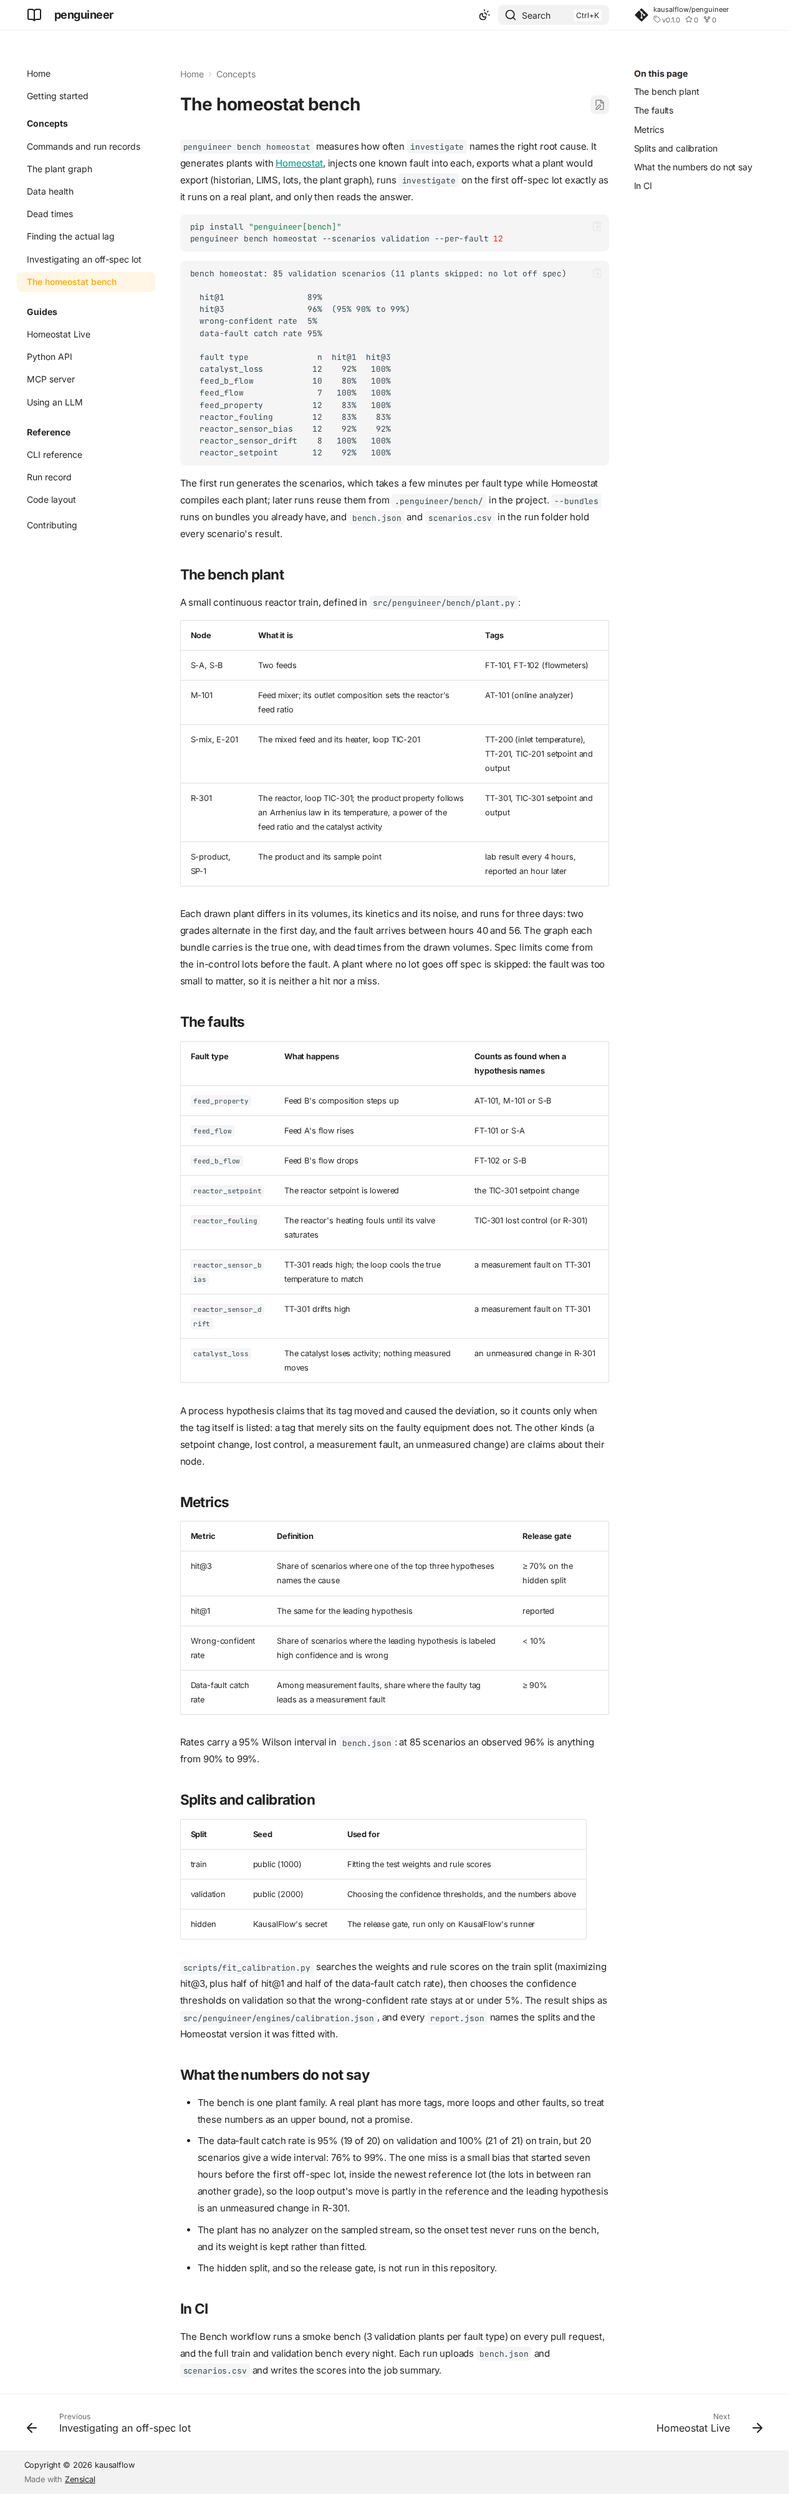
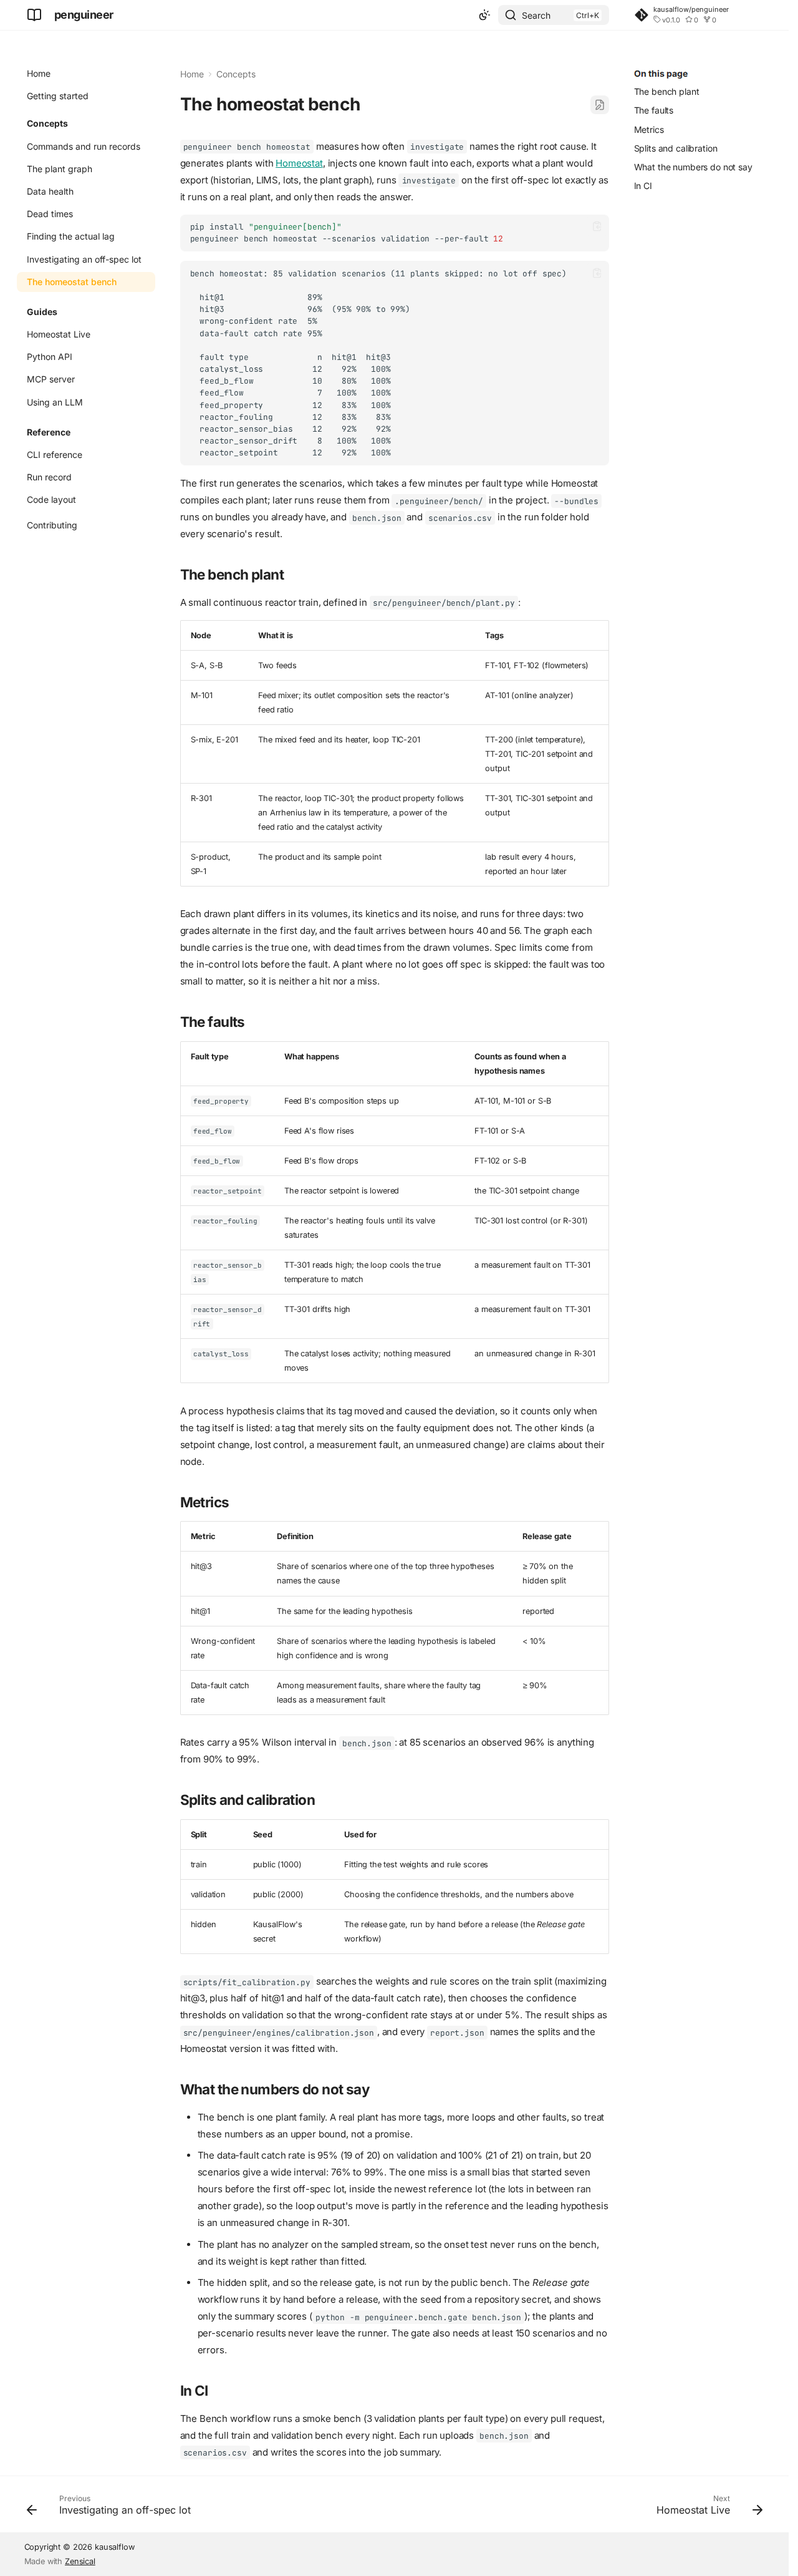
Deploying to gh-pages from @ kausalflow/penguineer@39a3ba0ee938d18e4d6eaf1c0ef626bef046d34f 🚀

diff --git a/concepts/bench/index.html b/concepts/bench/index.html
@@ -1394,7 +1394,7 @@
 <tr>
 <td>hidden</td>
 <td>KausalFlow's secret</td>
-<td>The release gate, run only on KausalFlow's runner</td>
+<td>The release gate, run by hand before a release (the <em>Release gate</em> workflow)</td>
 </tr>
 </tbody>
 </table>
@@ -1404,7 +1404,7 @@
 <li>The bench is one plant family. A real plant has more tags, more loops and other faults, so treat these numbers as an upper bound, not a promise.</li>
 <li>The data-fault catch rate is 95% (19 of 20) on validation and 100% (21 of 21) on train, but 20 scenarios give a wide interval: 76% to 99%. The one miss is a small bias that started seven hours before the first off-spec lot, inside the newest reference lot (the lots in between ran another grade), so the loop output's move is partly in the reference and the leading hypothesis is an unmeasured change in R-301.</li>
 <li>The plant has no analyzer on the sampled stream, so the onset test never runs on the bench, and its weight is kept rather than fitted.</li>
-<li>The hidden split, and so the release gate, is not run in this repository.</li>
+<li>The hidden split, and so the release gate, is not run by the public bench. The <em>Release gate</em> workflow runs it by hand before a release, with the seed from a repository secret, and shows only the summary scores (<code>python -m penguineer.bench.gate bench.json</code>); the plants and per-scenario results never leave the runner. The gate also needs at least 150 scenarios and no errors.</li>
 </ul>
 <h2 id="in-ci">In CI<a class="headerlink" href="#in-ci" title="Permanent link">&para;</a></h2>
 <p>The Bench workflow runs a smoke bench (3 validation plants per fault type) on every pull request, and the full train and validation bench every night. Each run uploads <code>bench.json</code> and <code>scenarios.csv</code> and writes the scores into the job summary.</p>

diff --git a/contributing/index.html b/contributing/index.html
@@ -1202,6 +1202,7 @@
 <h2 id="releasing">Releasing<a class="headerlink" href="#releasing" title="Permanent link">&para;</a></h2>
 <p>penguineer and plantgraph are published to PyPI together, with one version. <code>.github/workflows/release.yml</code> builds both, installs the wheels in a clean environment, and publishes them with PyPI trusted publishing when a GitHub release is published. No token is stored in the repository.</p>
 <ol>
+<li>Run the release gate: start the <em>Release gate</em> workflow from the Actions tab on <code>main</code>. It runs the bench on the hidden split (160 plants by default) with the seed in the repository secret <code>BENCH_HIDDEN_SEED</code>, and passes when the scores meet the gate in <a href="../concepts/bench/#metrics">The homeostat bench</a>. It shows only the summary scores and uploads nothing, because this repository is public.</li>
 <li>Set the new version in <code>pyproject.toml</code>, in <code>packages/plantgraph/pyproject.toml</code>, and in penguineer's <code>plantgraph==</code> pin (<code>tests/test_versions.py</code> checks that the three agree), then run <code>uv lock</code>. Merge that to <code>main</code>.</li>
 <li>On GitHub, create a release from <code>main</code> with the tag <code>v&lt;version&gt;</code>, for example <code>v0.1.0</code>. The workflow stops if the tag does not match the version.</li>
 </ol>
